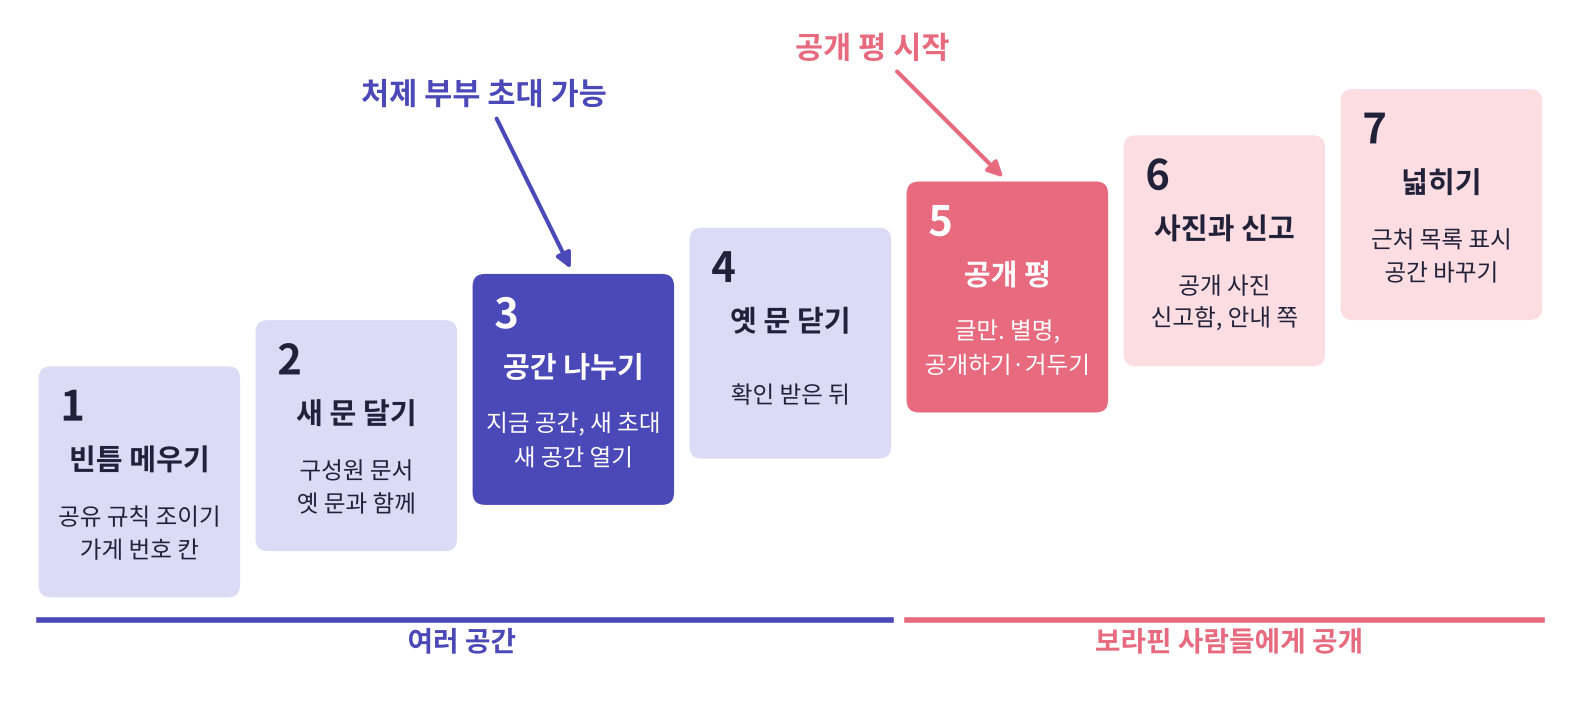
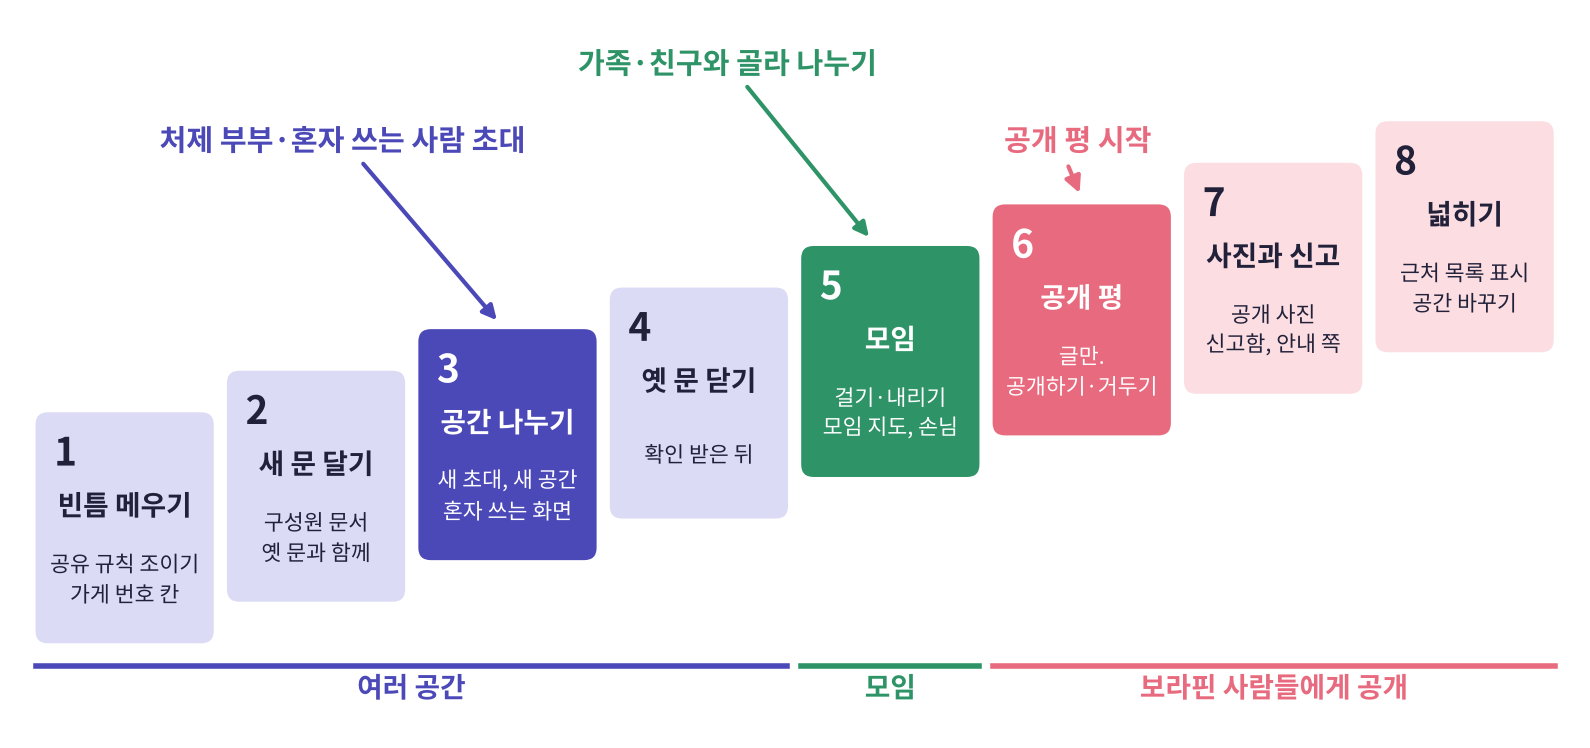
설계 고침: 혼자 쓰는 공간과 모임(골라서 나누기)을 보탬
Claude-Session: https://claude.ai/code/session_01A6V95D4Xp8fXbH7E5YCUjr

diff --git a/docs/ROADMAP.md b/docs/ROADMAP.md
@@ -94,7 +94,7 @@
 - 화면: 들러 가기 → [자차 | 대중교통], 대중교통은 [통합(기본) | 버스만 | 기차만], 기차는 KTX 우선(마지막 구간은 버스·택시 허용). 바로 가기 / 들러 가기(2~5시간) / 참고: 가장 빠른 길. 막차·기준 달·예매 링크. 마지막 시내 구간은 카카오맵.
 - 갈아타기: 걸어서 700m 안, 택시 직선 4km 안만. 일상 지역(집·직장)은 경유지 제외. 6시간 넘으면 1박 안.
 
-## 여러 공간 + 보라핀 사람들에게 공개 (11-20 설계)
-- 설계 문서: `docs/design/SPACES-PUBLIC.md` (그림 `docs/design/img/spaces-*.png`). 상태: 설계 끝, **사용자 확인 기다림**(문서 9절 다섯 가지).
-- 다음 할 일: 확인 받으면 1걸음(링크 공유에 spaceId·규칙 조이기, places.ref 칸, 리뷰에 uid)부터. 실패하는 규칙 시험 먼저(문서 6절).
-- 주의: 3걸음 끝나기 전에는 처제 부부에게 초대 링크를 보내지 않는다(지금은 초대받으면 우리 기록을 다 본다). 2·3걸음의 규칙·규칙 시험은 페이블로.
+## 여러 공간(혼자 포함) + 모임 + 보라핀 사람들에게 공개 (11-20 설계)
+- 설계 문서: `docs/design/SPACES-PUBLIC.md` (그림 `docs/design/img/spaces-*.png`). 상태: 설계 끝, **사용자 확인 기다림**(문서 10절 여덟 가지).
+- 다음 할 일: 확인 받으면 1걸음(링크 공유에 spaceId·규칙 조이기, places.ref 칸, 리뷰에 uid)부터. 실패하는 규칙 시험 먼저(문서 7절).
+- 주의: 3걸음 끝나기 전에는 처제 부부에게 초대 링크를 보내지 않는다(지금은 초대받으면 우리 기록을 다 본다). 2·3·5걸음의 규칙·규칙 시험은 페이블로.
